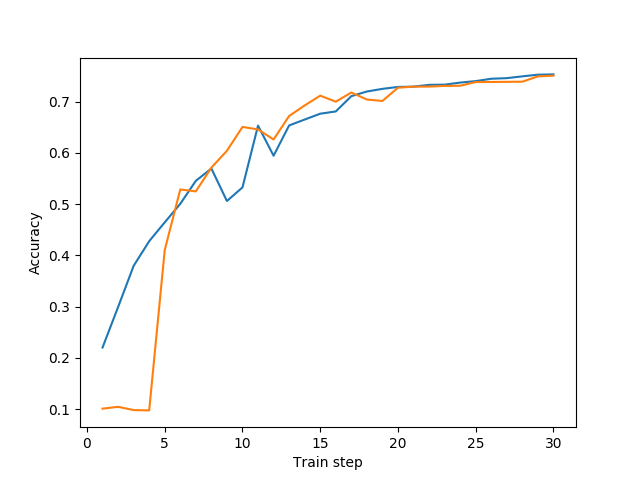
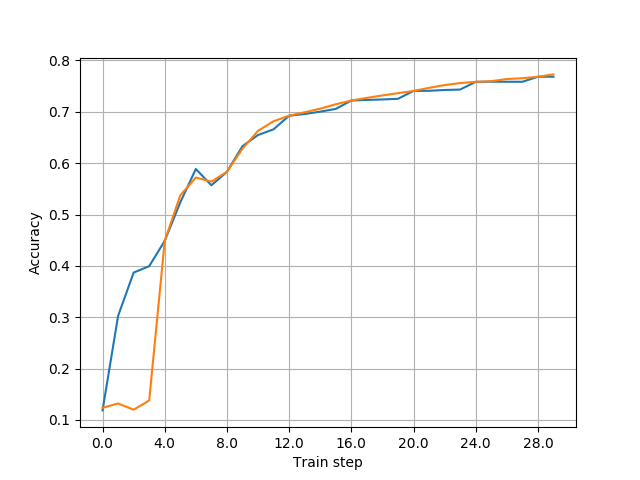
Add tests for the toy model.

diff --git a/pbt_cluster.py b/pbt_cluster.py
@@ -5,6 +5,7 @@ import matplotlib
 # Force matplotlib to not use any Xwindows backend.
 matplotlib.use('Agg')
 from matplotlib import pyplot
+import matplotlib.ticker as ticker
 import numpy as np
 
 from constants import WorkerInstruction
@@ -17,6 +18,7 @@ class PBTCluster:
         self.master_rank = master_rank
         self.do_exploit = do_exploit
         self.do_explore = do_explore
+        self.steps_per_round = 4
 
         self.build_all_graphs()
 
@@ -56,7 +58,7 @@ class PBTCluster:
         round = 0
         while until_step_num > 0:
             print '\nRound {}'.format(round)
-            steps_to_train = min(4, until_step_num)
+            steps_to_train = min(self.steps_per_round, until_step_num)
 
             reqs = []
             for i in range(0, self.comm.Get_size()):
@@ -65,7 +67,7 @@ class PBTCluster:
             for req in reqs:
                 req.wait()
 
-            until_step_num -= 4
+            until_step_num -= self.steps_per_round
             round += 1
 
             if self.do_exploit:
@@ -159,12 +161,29 @@ class PBTCluster:
 
     def report_accuracy_plot(self):
         all_logs = self.get_all_training_log()
+        if len(all_logs) == 0:
+            print 'Error: No train logs'
+            return
+
+        fig, ax = pyplot.subplots()
+        for i in all_logs:
+            ax.plot(zip(*i)[0], zip(*i)[1])
+
+        start, end = ax.get_xlim()
+        ax.xaxis.set_ticks(np.arange(0.0, end, 4))
+        ax.xaxis.set_major_formatter(ticker.FormatStrFormatter('%0.1f'))
         pyplot.xlabel(r'Train step')
         pyplot.ylabel(r'Accuracy')
-        for i in all_logs:
-            pyplot.plot(zip(*i)[0], zip(*i)[1])
+        pyplot.grid(True)        
 
-        out_file_name = 'acc.png'
+        if self.do_exploit and self.do_explore:
+            out_file_name = 'acc_PBT.png'
+        elif self.do_exploit and not self.do_explore:
+            out_file_name = 'acc_exploit_only.png'
+        elif not self.do_exploit and self.do_explore:
+            out_file_name = 'acc_explore_only.png'
+        else:
+            out_file_name = 'acc_grid_search.png'
         pyplot.savefig(out_file_name)
         print 'Writing results to {}'.format(out_file_name)
 

diff --git a/mnist_deep_model.py b/mnist_deep_model.py
@@ -18,6 +18,7 @@ class MNISTDeepModel:
     def train(self, num_steps):
         train_images, train_labels = get_train_batch(100)
         for i in range(num_steps):
+            self.train_log.append((self.train_step, self.get_accuracy()))
             self.sess.run([self.train_op], 
                         feed_dict={self.x: train_images,
                          self.y_: train_labels, 
@@ -29,10 +30,8 @@ class MNISTDeepModel:
                          self.y_: train_labels, 
                          self.is_training: False,
                          self.keep_prob: self.hparams['dropout']})
-            self.writer.add_summary(result, self.train_step)
-            self.train_step += 1
-
-            self.train_log.append((self.train_step, self.get_accuracy()))
+            self.writer.add_summary(result, self.train_step)            
+            self.train_step += 1            
 
     def perturb_hparams_and_update_graph(self):
         self.build_graph_from_hparams(is_first_call=False)

diff --git a/test_toy_model.py b/test_toy_model.py
@@ -1,0 +1,23 @@
+from toy_model import ToyModel
+import unittest
+
+class ToyModelTestCase(unittest.TestCase):
+    def test_train_step(self):
+        hparam = {'h_0':1.0, 'h_1': 0.0}
+        model = ToyModel(0, hparam)
+        model.train(10)
+        self.assertEqual(model.train_step, 10)
+
+    def test_copy_model(self):
+        model1 = ToyModel(0, {'h_0':1.0, 'h_1': 0.0})
+        model2 = ToyModel(1, {'h_0':0.0, 'h_1': 1.0})
+        model1.train(1)
+        model2.train(1)
+        self.assertNotEqual(model1.get_values()[2], model2.get_values()[2])
+        model1.set_values(model2.get_values())
+        self.assertEqual(model1.get_values()[2], model2.get_values()[2])
+        self.assertNotEqual(model1.get_values()[3], model2.get_values()[3])
+        self.assertNotEqual(model1.cluster_id, model2.cluster_id)
+        
+
+unittest.main(verbosity=2)
